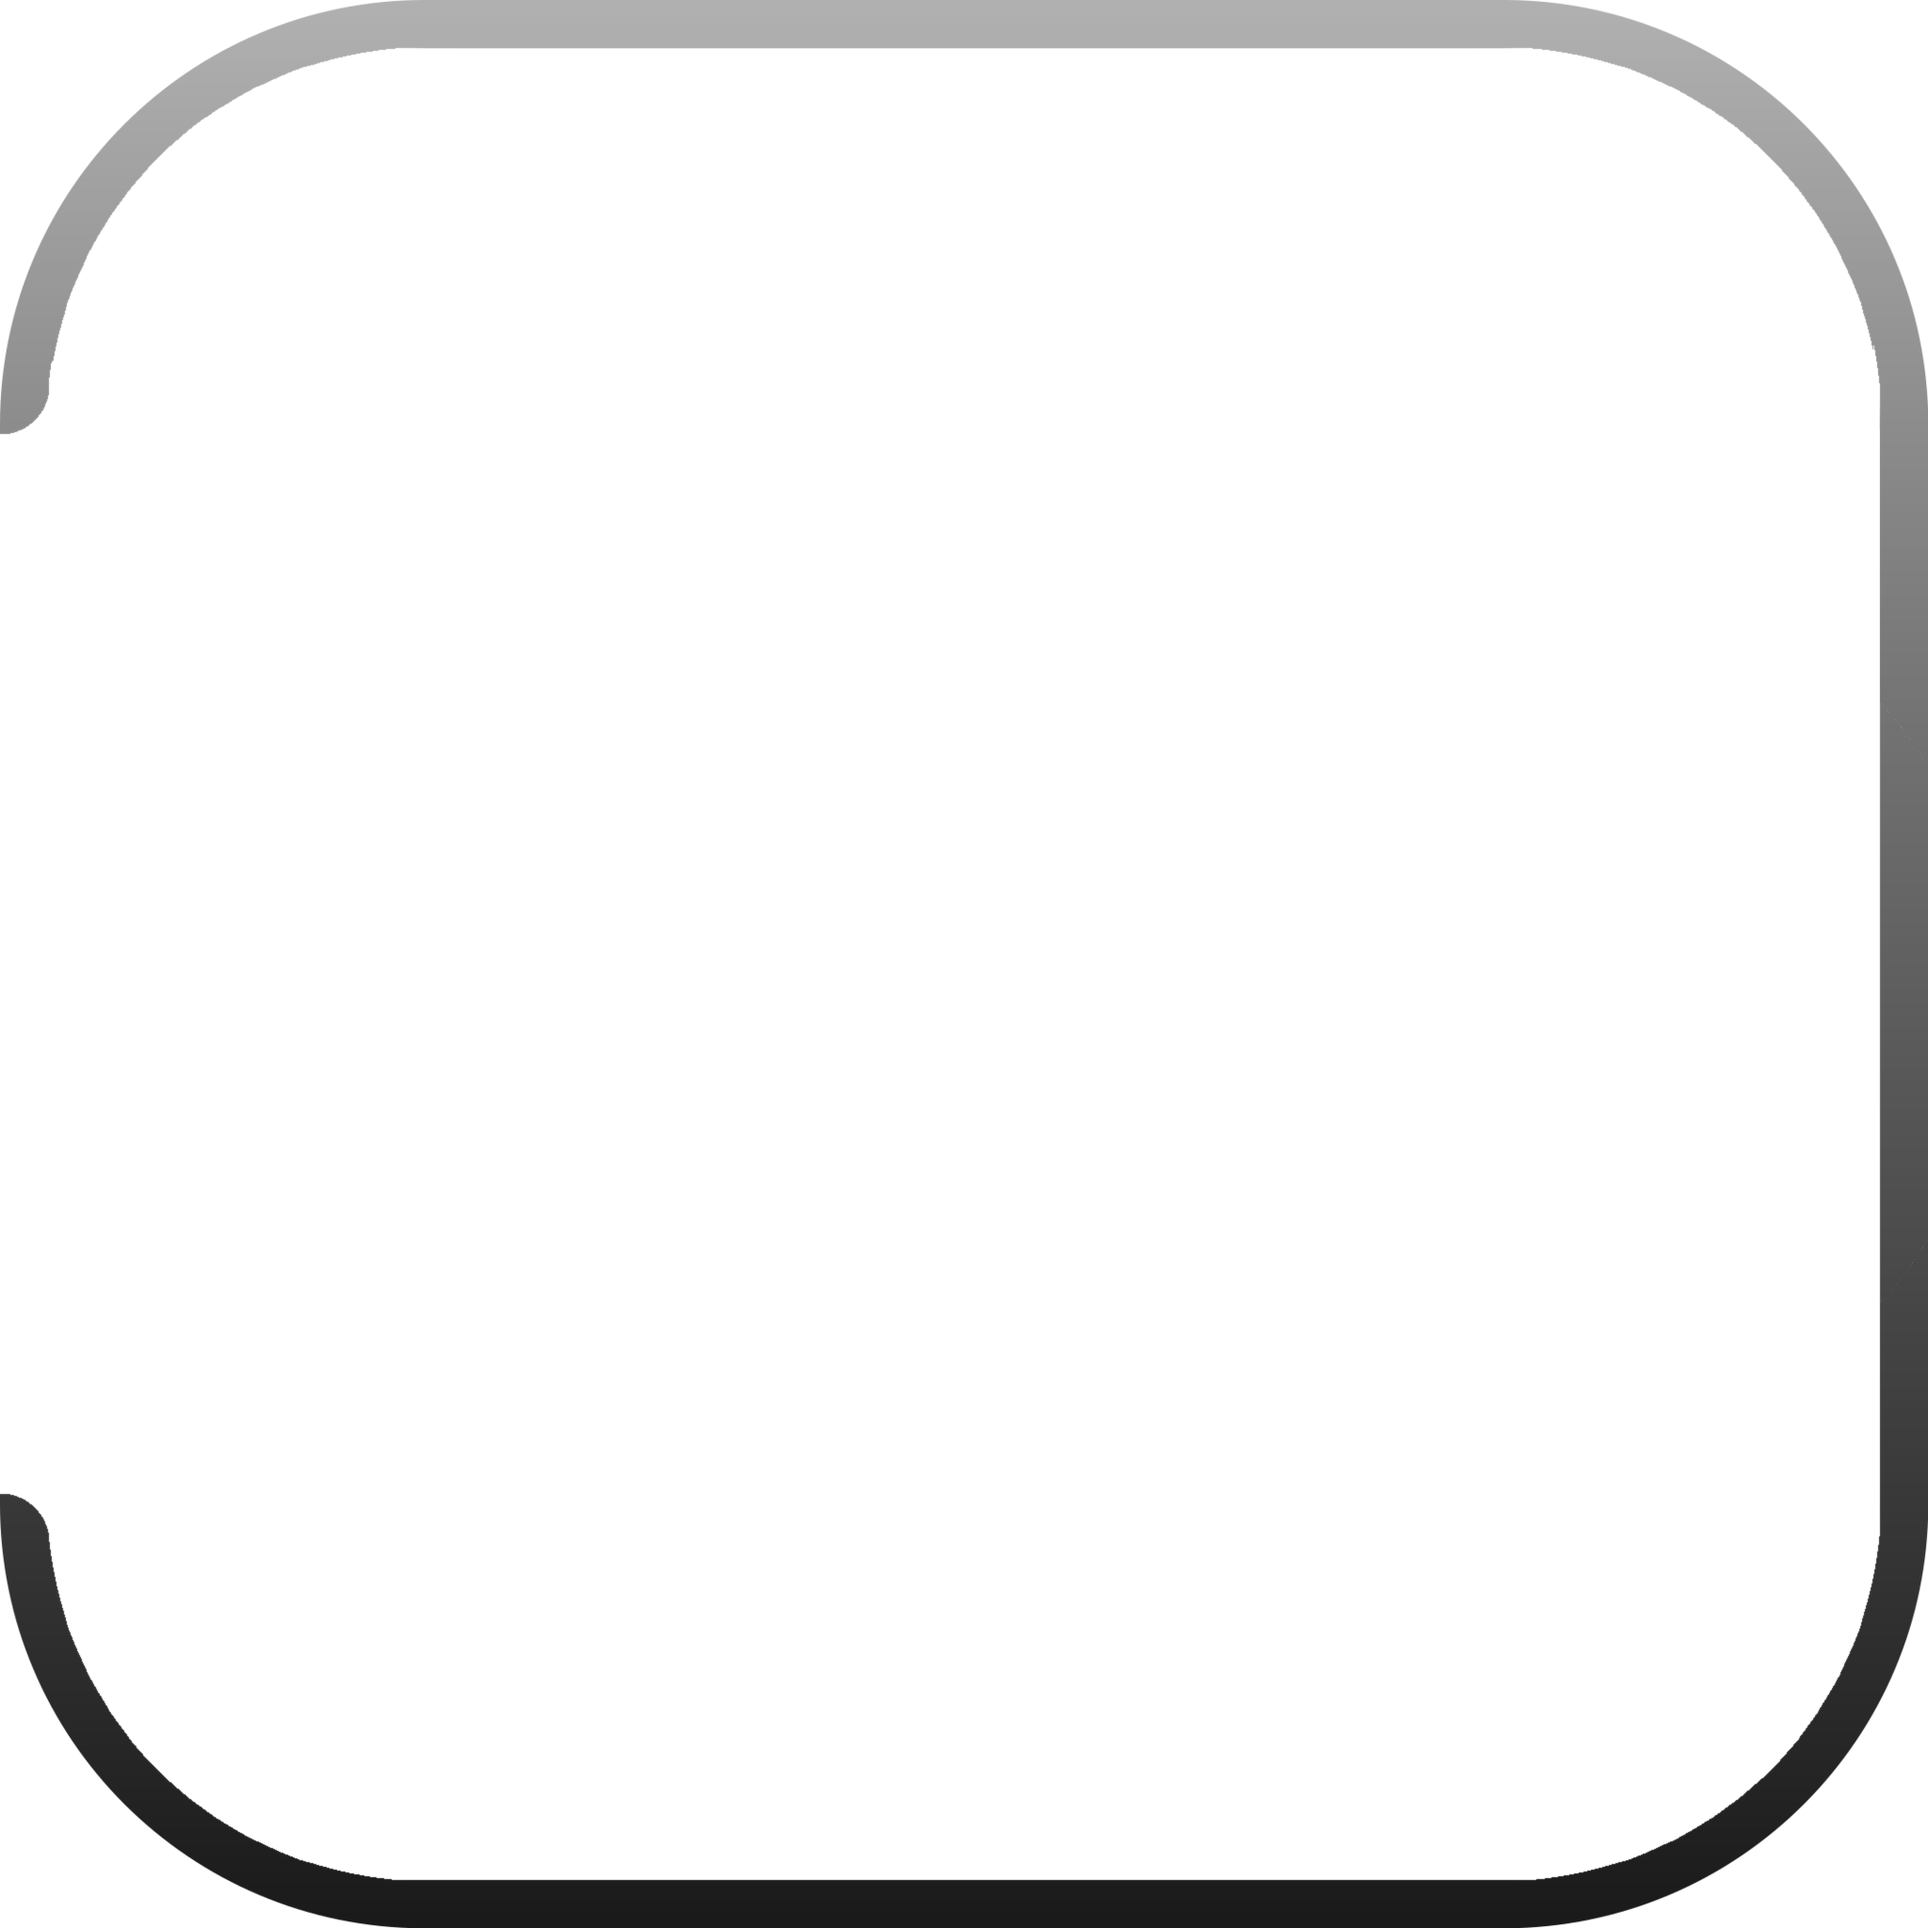
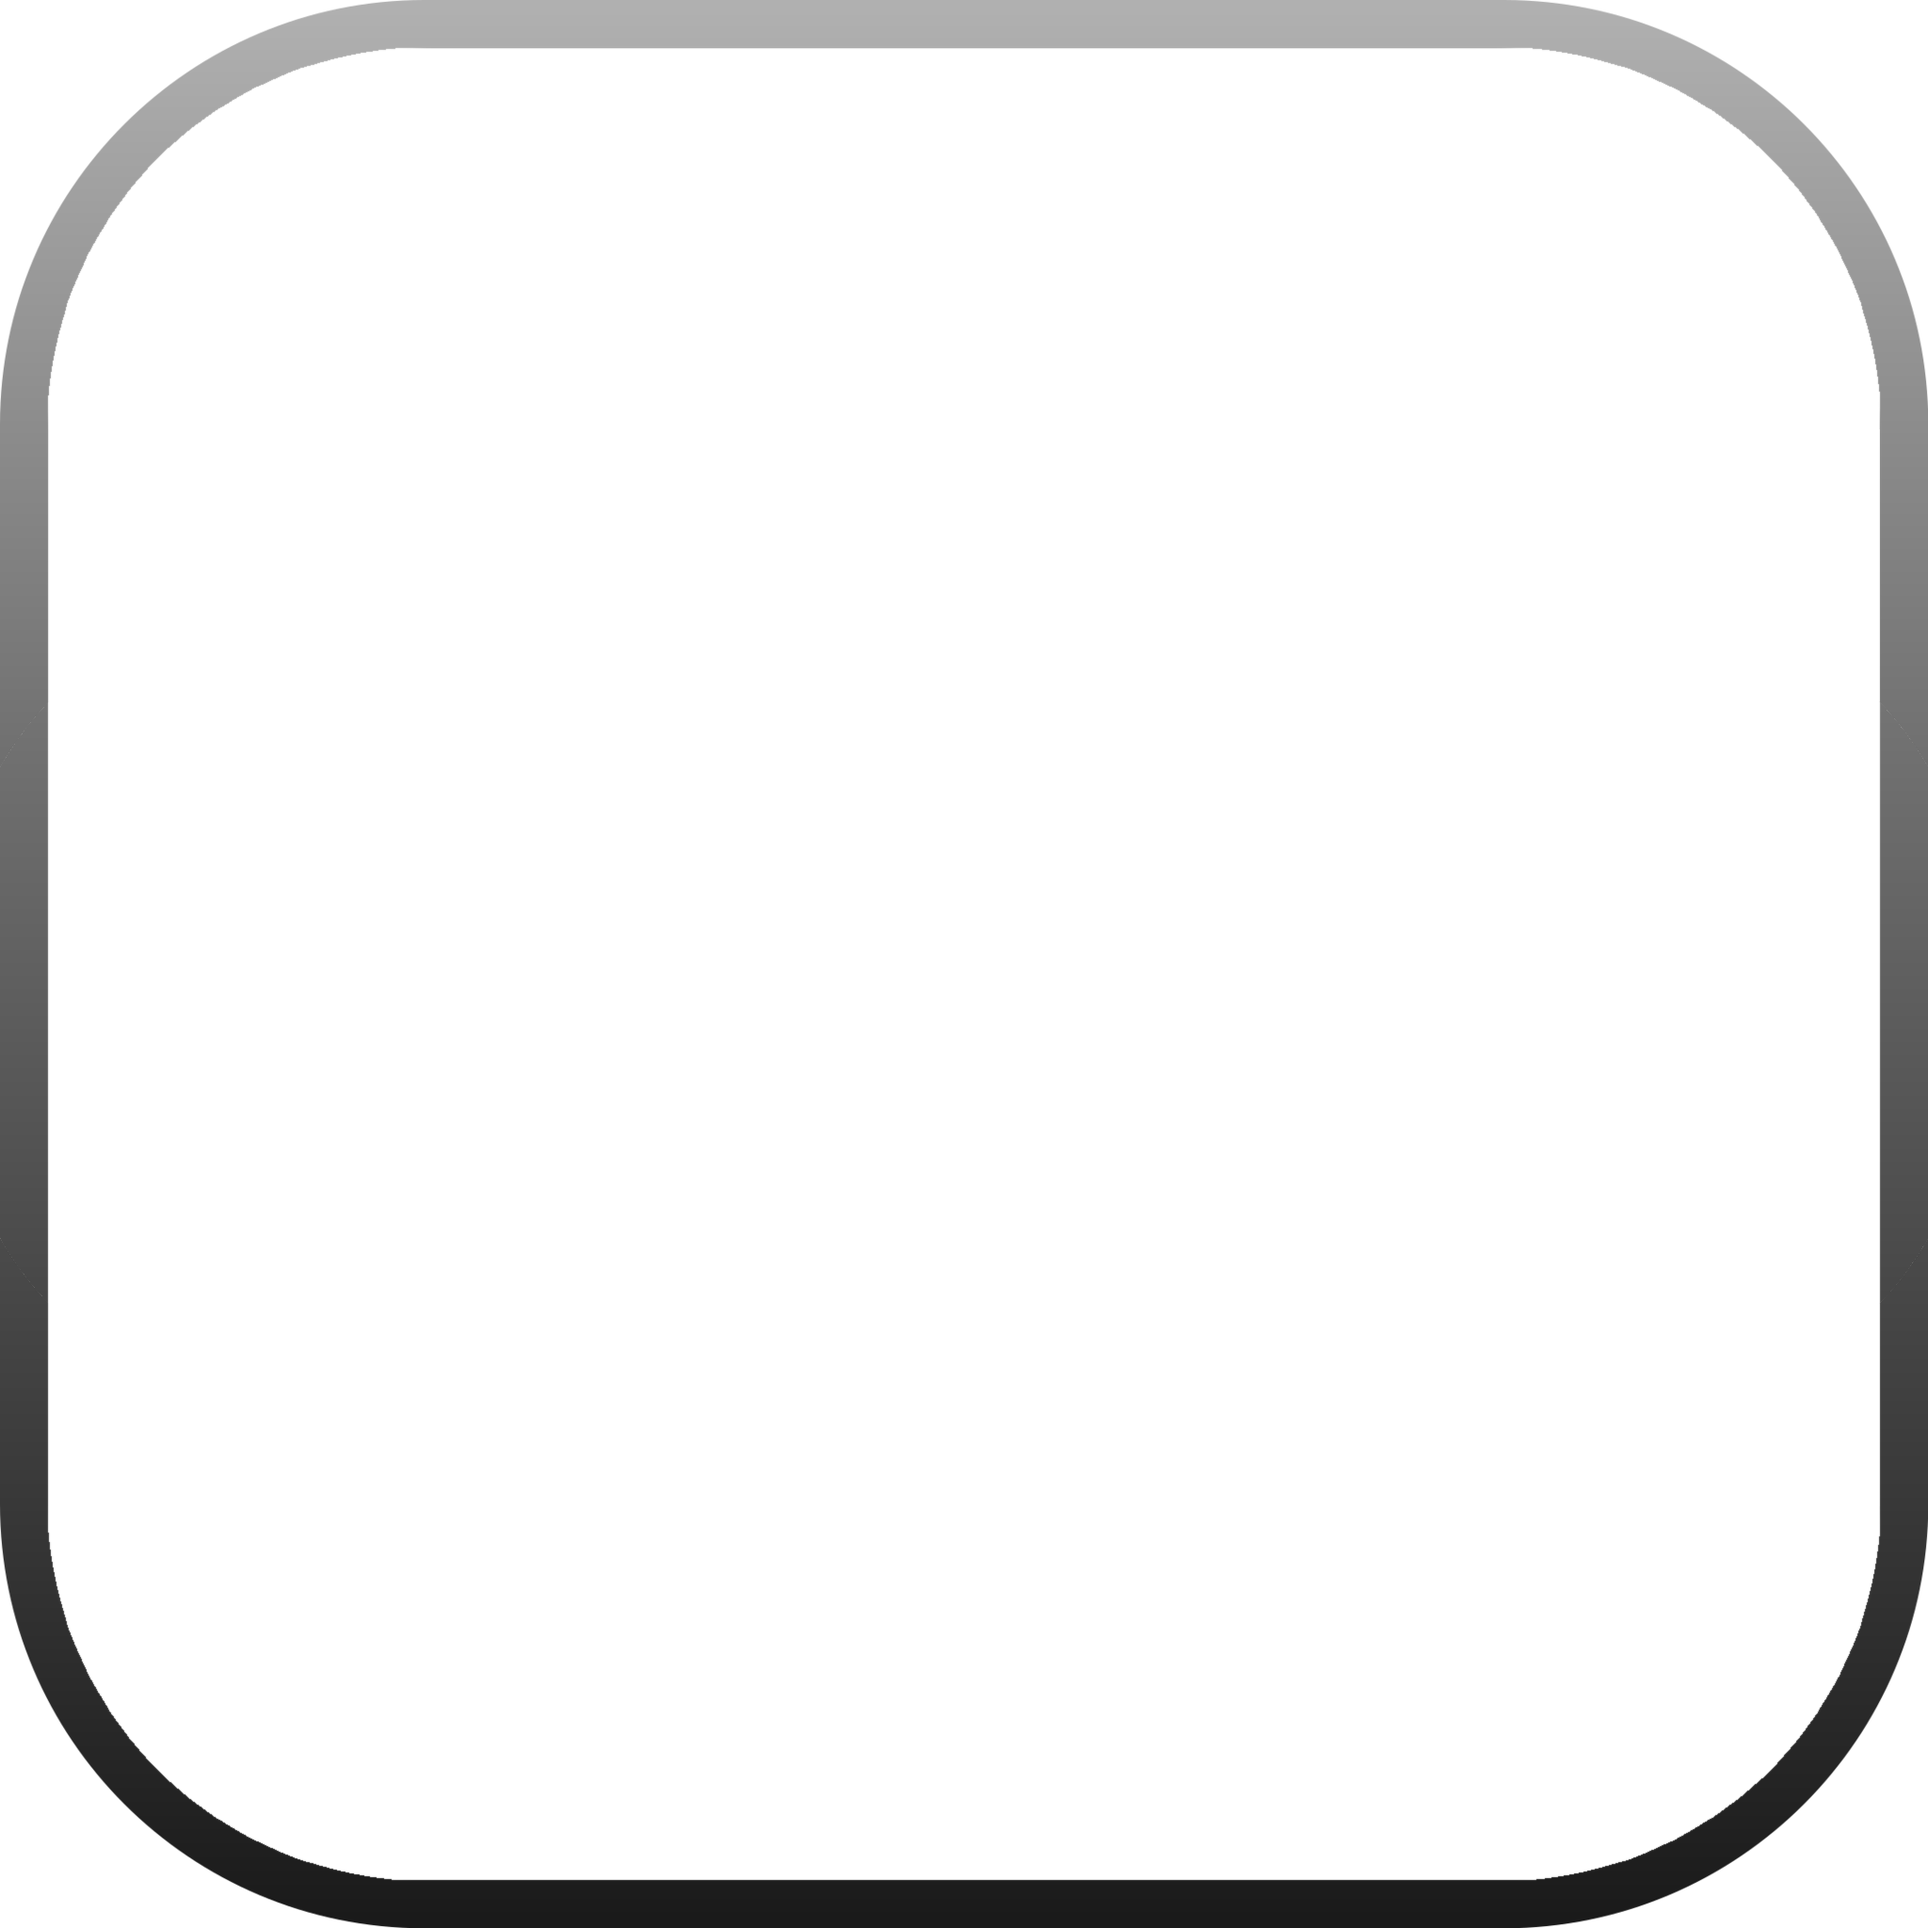
Update agent metadata and documentation with new asset
Replit-Commit-Author: Agent

Changed region(s): [[0.0, 0.2188, 0.0312, 0.7812]]

diff --git a/.agents/memory/programmatic-contour-cleanup.md b/.agents/memory/programmatic-contour-cleanup.md
@@ -3,8 +3,8 @@ name: Programmatic contour cleanup
 description: Guidance for preserving flat PNG artwork while rebuilding rough contours.
 ---
 
-For flat-color transparent artwork, rebuild only the marked contour masks with mirrored geometry and render them supersampled with premultiplied-alpha downsampling. Do not globally fill cleared pixels based on source opacity: that can turn intended transparent gaps into visible wedges or spikes.
+For flat-color transparent artwork, rebuild only the marked contour masks with mirrored geometry and render them supersampled with premultiplied-alpha downsampling. For a uniform-width inset around a rounded raster contour, use an exact Euclidean distance transform with explicit outside padding; square-kernel erosion makes corners visibly thicker. Do not globally fill cleared pixels based on source opacity: that can turn intended transparent gaps into visible wedges or spikes.
 
 **Why:** Layered raster masks can leave halos when old pixels are cleared, while broad opaque-gap filling can alter the illustration's internal geometry.
 
-**How to apply:** Keep edits confined to explicit outer-contour regions, preserve the original inner artwork layers, and verify both the full image and enlarged edge crops before presenting the asset.
+**How to apply:** Keep edits confined to explicit outer-contour regions, preserve the original inner artwork layers, pad the mask before distance calculation, and verify both the full image and enlarged edge crops before presenting the asset.
